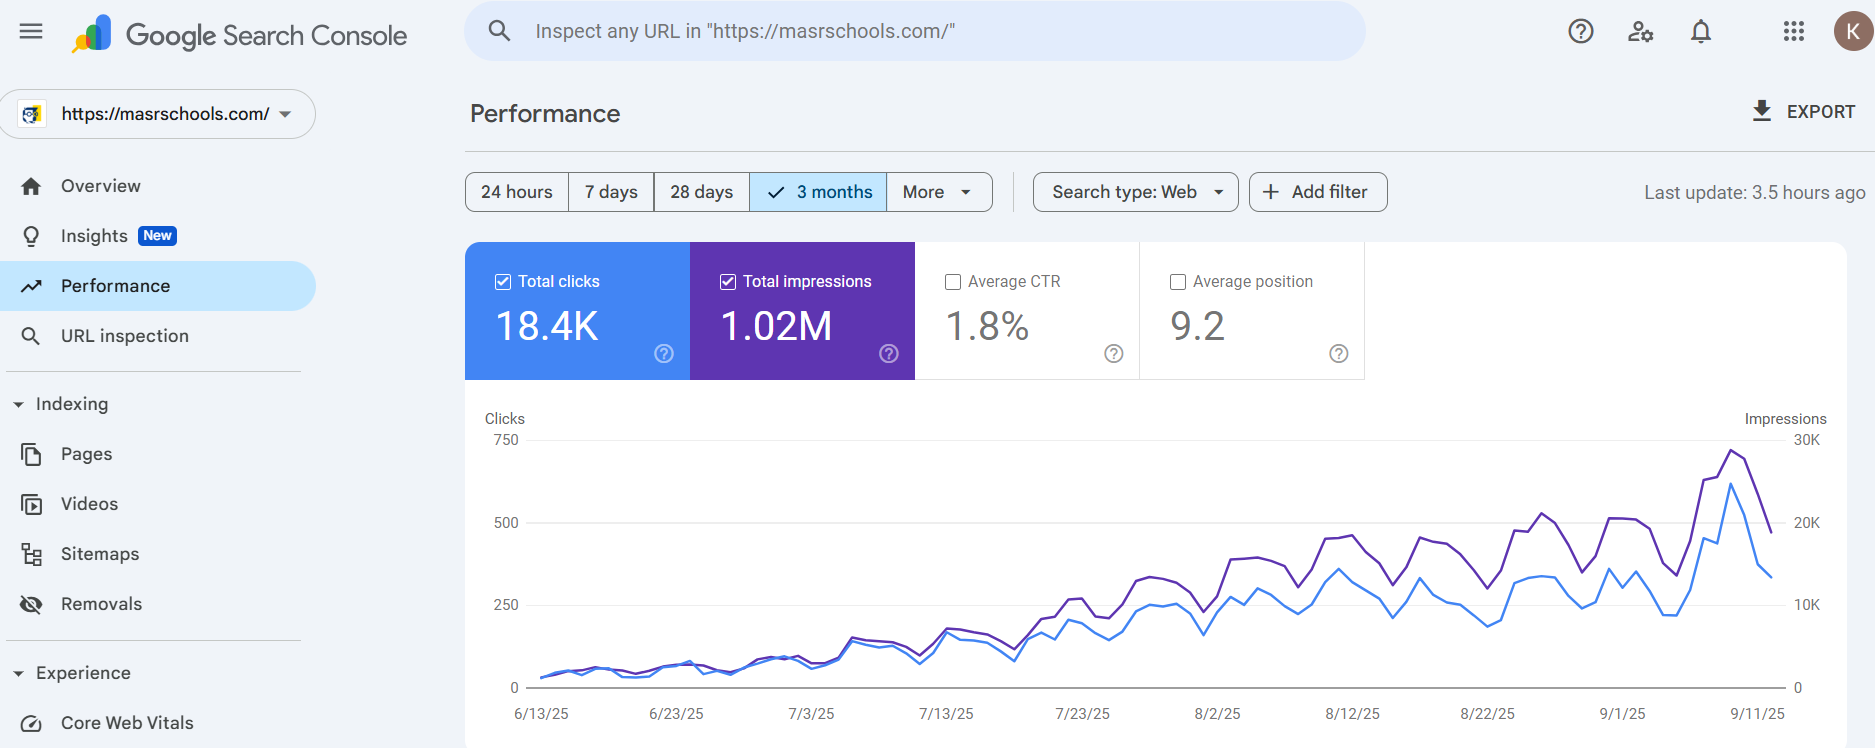
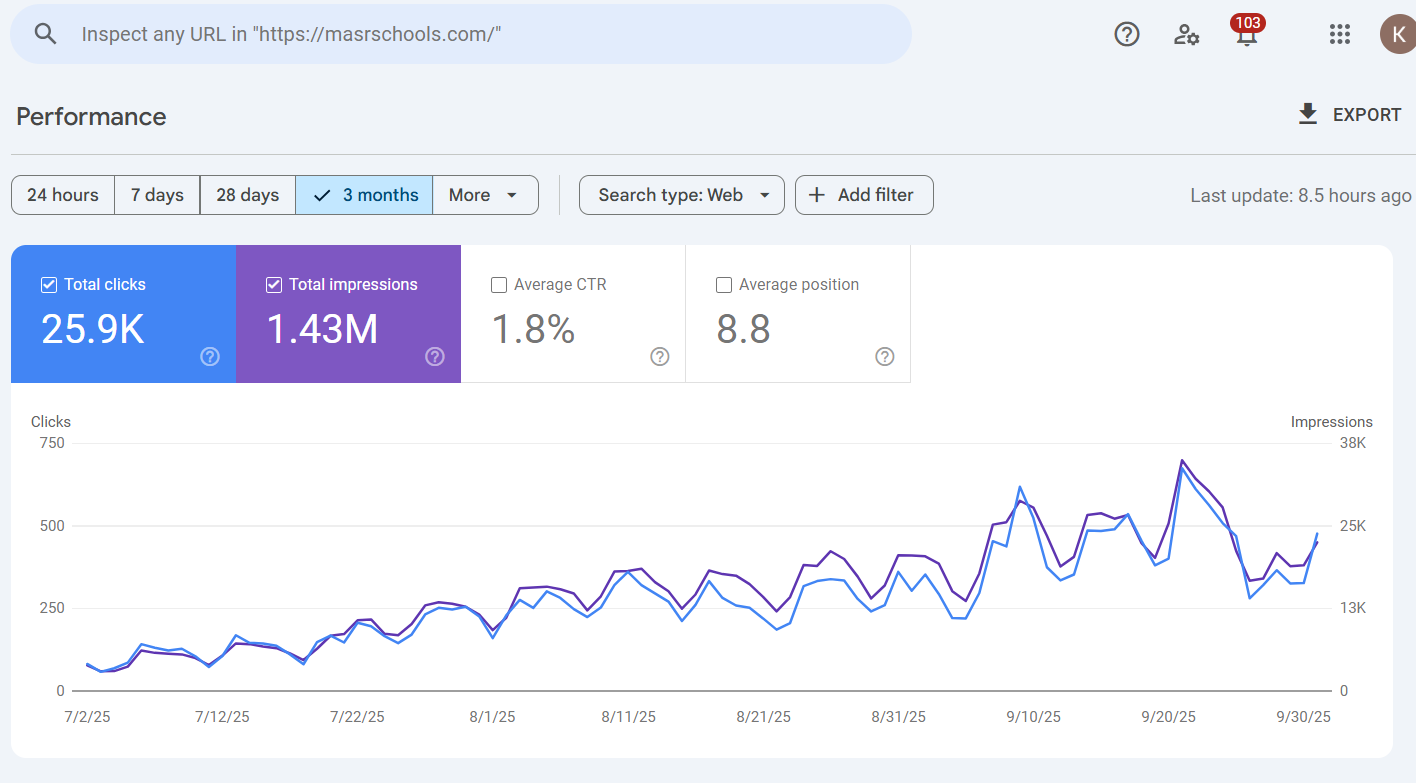
Update SEO results with new photo

diff --git a/src/components/portfolio/SEOResults.tsx b/src/components/portfolio/SEOResults.tsx
@@ -6,14 +6,14 @@ export const SEOResults = () => {
   const metrics = [
     {
       label: 'Total Clicks',
-      value: '18.4K',
+      value: '25.9K',
       icon: MousePointer,
       color: 'text-blue-500',
       bgColor: 'bg-blue-50 dark:bg-blue-950/20'
     },
     {
       label: 'Total Impressions',
-      value: '1.02M',
+      value: '1.43M',
       icon: Eye,
       color: 'text-purple-500',
       bgColor: 'bg-purple-50 dark:bg-purple-950/20'
@@ -27,7 +27,7 @@ export const SEOResults = () => {
     },
     {
       label: 'Average Position',
-      value: '9.2',
+      value: '8.8',
       icon: Target,
       color: 'text-orange-500',
       bgColor: 'bg-orange-50 dark:bg-orange-950/20'
